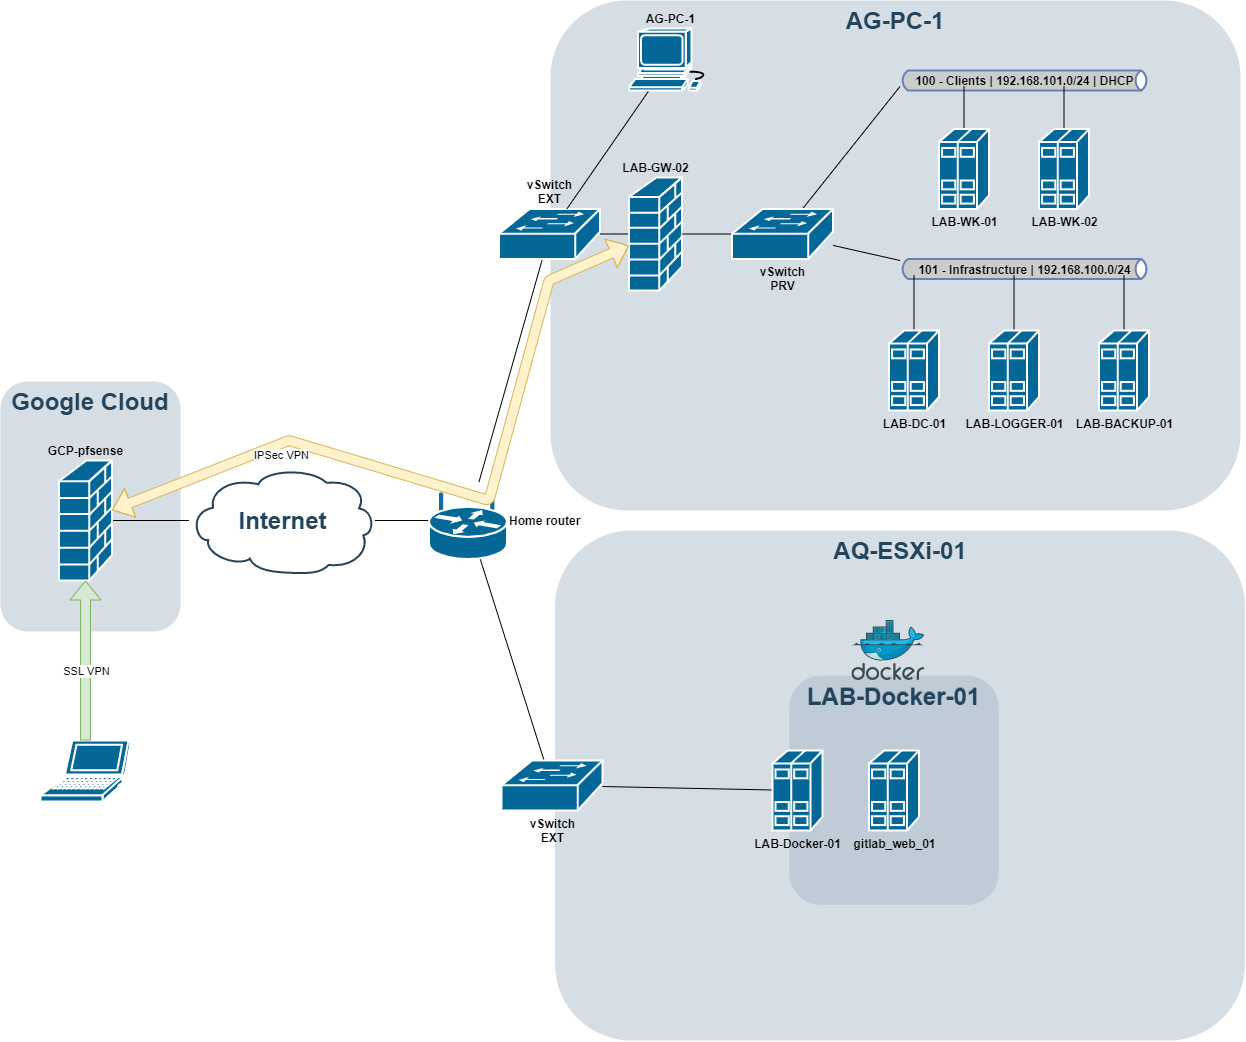
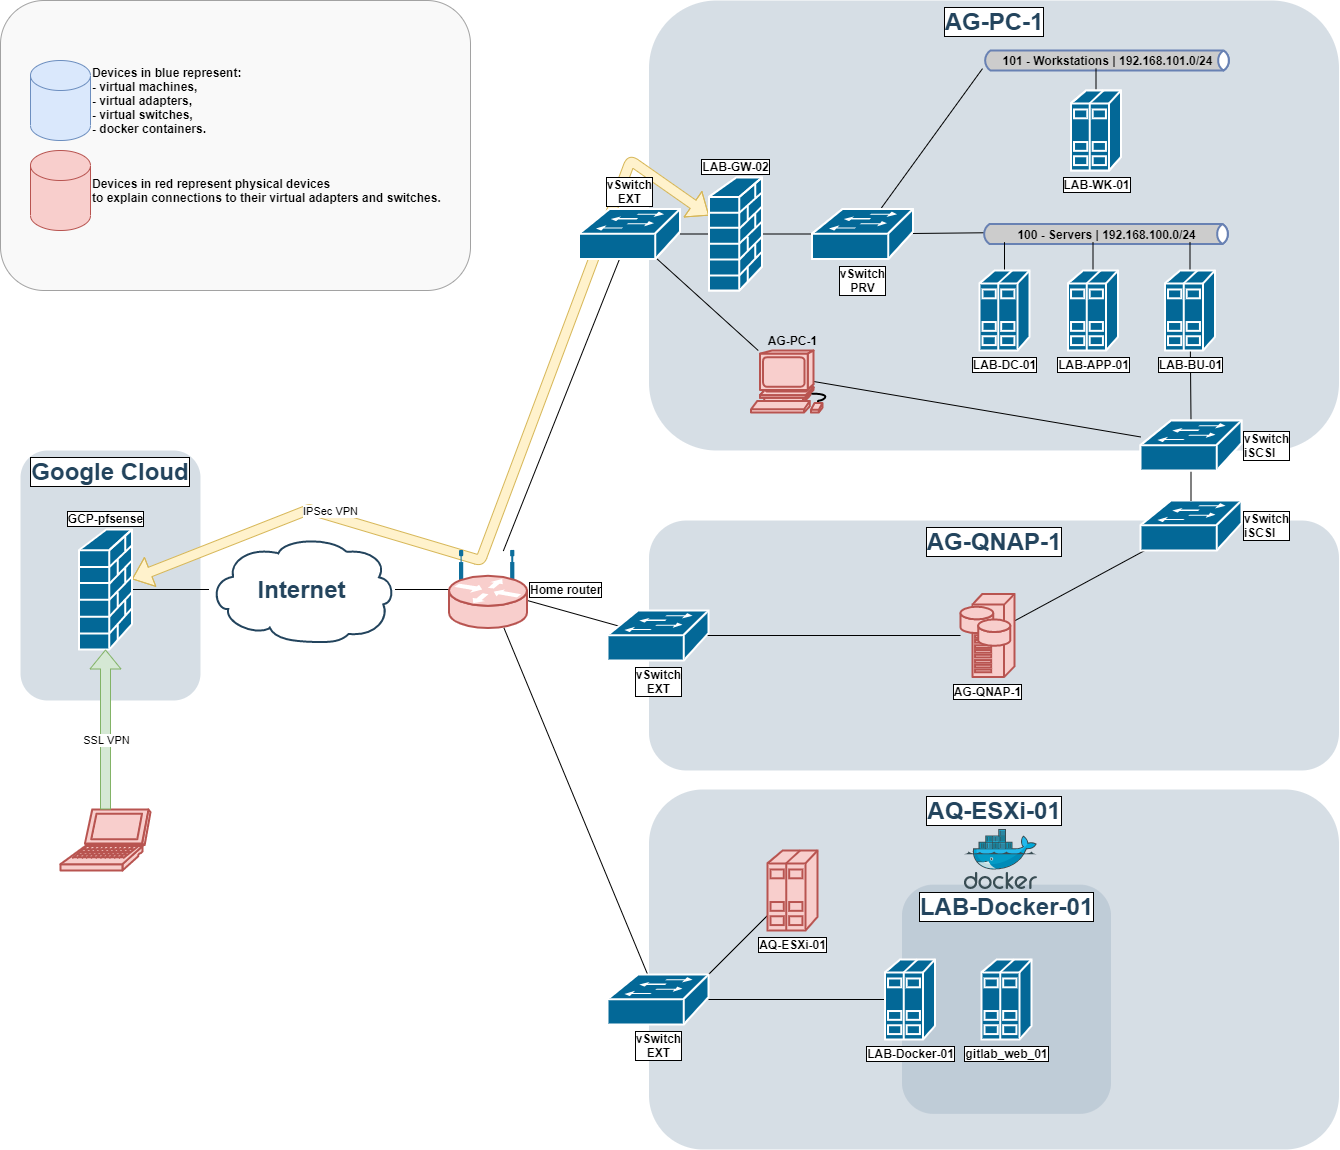
Added ADCS role and a new IIS server

diff --git a/Readme.md b/Readme.md
@@ -5,9 +5,11 @@ Documentation of my homelab setup and learning progress
 # Table of contents
 
 * [Goal](#Goal)
+* [Diagram](#Diagram)
 * [Servers](#Servers)
 * [Network](#Network)
-* [Diagram](#Diagram)
+* [Storage](#Storage)
+* [Services](#Services)
 * [Tools](#Tools)
 * [Future considerations](#Future-considerations)
 
@@ -16,21 +18,25 @@ Documentation of my homelab setup and learning progress
 1. Create a base environment for testing and learning about IT systems
 2. Continue exploring
 
+# Diagram
+
+![Diagram](img/Diagram.png?raw=true)
+
 # Servers
 
 | Hostname      | Resources                              | IP             | Location      | Purpose                                         |
 | --------      | ---------                              | --             | --------      | -------                                         |
 | AG-PC-1       | i5-8600K <br> 32GB DDR4                | 172.20.0.100   | Labroom       | Type 2 hypervisor (HyperV) + main client        |
 | AQ-ESXi-01    | i3-540 <br> 8GB DDR3                   | 172.20.0.3     | Labroom       | Type 1 hypervisor (ESXi)                        |
-| AG-QNAP-1     | 1TB RAID-1                             | 172.20.0.10    | Labroom       | -Not-in-use-                                    |
+| AG-QNAP-1     | 2x 500GB RAID-1                        | 172.20.0.10    | Labroom       | Secondary storage array for backups             |
+| AG-RPi-1      | Cortex-A72 (4x1.5GHz) <br> 8GB DDR4    | 172.20.0.20    | Labroom       | Lab monitoring (zabbix) + testing
 | LAB-GW-02     | 1 vCPU <br> 4GB vRAM                   | 172.20.0.200 <br> 192.168.100.1 <br> 192.168.101.1 | AG-PC-1       | Gateway FW + VPN concentrator (Sophos XG) |
-| LAB-Docker-01 | 2 vCPU <br> 4GB vRAM                   | 172.20.0.201   | AQ-ESXi-01    | Docker host (CentOS 7                           |
+| LAB-Docker-01 | 2 vCPU <br> 4GB vRAM                   | 172.20.0.201   | AQ-ESXi-01    | Docker host (CentOS 7)                           |
 | gitlab_web_1  | -                                      | -              | LAB-Docker-01 | Gitlab container                                | 
-| LAB-WK-01     | 1 vCPU <br> 2GB vRAM                   | 192.168.100.x  | AG-PC-1       | Client desktop (Windows 10)                     |
-| LAB-WK-02     | 1 vCPU <br> 2GB vRAM                   | 192.168.100.x  | AG-PC-1       | Client desktop (Ubuntu 20)                      |
-| LAB-DC-01     | 1 vCPU <br> 4GB vRAM                   | 192.168.101.10 | AG-PC-1       | ADDS + DNS + DHCP (Windows Server 2016)         |
-| LAB-LOGGER-01 | 1 vCPU <br> 4GB vRAM                   | 192.168.101.30 | AG-PC-1       | Syslog (Graylog) + Network monitor (Zabbix)     |
-| LAB-BACKUP-01 | 1 vCPU <br> 4GB vRAM                   | 192.168.101.20 | AG-PC-1       | Backup (Veeam Backup&Replication 10 CE)         |
+| LAB-WK-01     | 1 vCPU <br> 2GB vRAM                   | 192.168.101.x  | AG-PC-1       | Client desktop (Windows 10)                     |
+| LAB-DC-01     | 1 vCPU <br> 4GB vRAM                   | 192.168.100.2  | AG-PC-1       | ADDS + ADCS + DNS + DHCP (Windows Server 2016) |
+| LAB-APP-01    | 2 vCPU <br> 4GB vRAM                   | 192.168.100.3  | AG-PC-1       | MEDesktopCentral + Nessus + IIS hosting static website (Windows Server 2016) |
+| LAB-BACKUP-01 | 1 vCPU <br> 4GB vRAM                   | 192.168.100.4  | AG-PC-1       | Backup (Veeam Backup&Replication 10 CE)         |
 | GCP-pfsense   | 1 vCPU <br> 0.6GB vRAM <br> (f1-micro) | 10.132.0.2     | GCP cloud     | Gateway FW + VPN concentrator (pfSense)         |
 
 
@@ -39,14 +45,37 @@ Documentation of my homelab setup and learning progress
 | VLAN ID | Subnet           | Description    |
 | ------- | ------           | -----------    |
 | 0       | 172.20.0.0/24    | Home network   |
-| 100     | 192.168.100.0/24 | Clients        |
-| 101     | 192.168.101.0/24 | Infrastructure |
+| 100     | 192.168.100.0/24 | Servers        |
+| 101     | 192.168.101.0/24 | Workstations   |
 | 0       | 10.132.0.0/20    | Cloud lab      |
+| 0       | 10.254.254.0/24  | iSCSI network  |
 
+# Storage
 
-# Diagram
+## Main VM storage
 
-![Diagram](img/Diagram.png?raw=true)
+* 1x 256GB NVMe SSD
+* One parent RO VHD with generalized image of fully patched Windows Server 2016 installed and each VM having a separate child VHD to massively reduce size of the lab and installation speed of new systems
+
+## Backups storage
+
+* 2x 500GB SATA3 HDD in RAID-1 configured on AG-QNAP-1 NAS
+* Connected to main compute host AG-PC-01 via physically separate iSCSI network
+
+# Services
+
+| Name | Usecase |
+| ---- | ------- |
+| SophosXG firewall | <ul><li>Routing and NATing traffic between WAN and LAN networks</li><li>Relaying DHCP requests to main DHCP server</li><li>Filtering traffic to only allow neccesarry services</li><li>Terminating IKEv2/IPSec Site-to-site VPN</li></ul> |
+| pfSense | <ul><li>Terminating IKEv2/IPSec Site-to-site VPN</li><li>Terminating remote access OpenVPN (SSL) for remote access to the lab and traffic redirection through USA</li></ul> |
+| DHCP | Assigning network configuration to hosts in predefined scopes |
+| DNS | Name resolution for hosts and services inside the homelab |
+| Active Directory | Domain Services:<ul><li>centralized hosts configuration via GPO</li><li>centralized user authentication and autorization</li></ul>Certificate Services:<ul><li>Management of Public Key Infrastructure issuing certificates for encryption and authentication of secure lab services</li></ul>
+| IIS | Hosting static website ([pomodoro-timer app I contributed to](https://github.com/tope96/catch-up-time)) with http to https redirection |
+| Veeam Backup Community Edition | Scheduled automatic backup of key lab machines to secondary redundant array of discs |
+| Manage Engine Desktop Central | Centralized configuration and patch management and auditing |
+| Zabbix | Monitoring and logging of key performance and availability metrics |
+| Tenable Nessus | Vulnerability scanner |
 
 # Tools
 
@@ -59,22 +88,10 @@ Documentation of my homelab setup and learning progress
 
 # Future-considerations
 
-Systems to implement:
-* [x] Gateway/FW (pfSense, replaced by Sophos XG)
-* [x] DC + DNS (WinSrv)
-* [x] DHCP (WinSrv)
-* [X] Syslog (Graylog)
-* [X] Monitoring (Zabbix, maybe try Nagios later?)
-* [X] Backup server (Veeam Backup Free Edition)
-* [ ] File server (WinSrv>Linux)
-* [ ] Mail server
-* [ ] WSUS
-* [ ] FTP (?)
-* [ ] Automated OS deployment (MDT, Ansible)
-* [ ] Centralized endpoint management (ME Desktop Central, ?)
-* [ ] Webserver (hosting mediawiki)
-* [ ] Vulnerability scanner (Nessus)
-* [ ] more
-
-Improvements:
-* [ ] Clean up this doc
+* Nessus
+* RDS
+* VDI
+* DFS
+* FTP
+* WSUS
+* Mail
